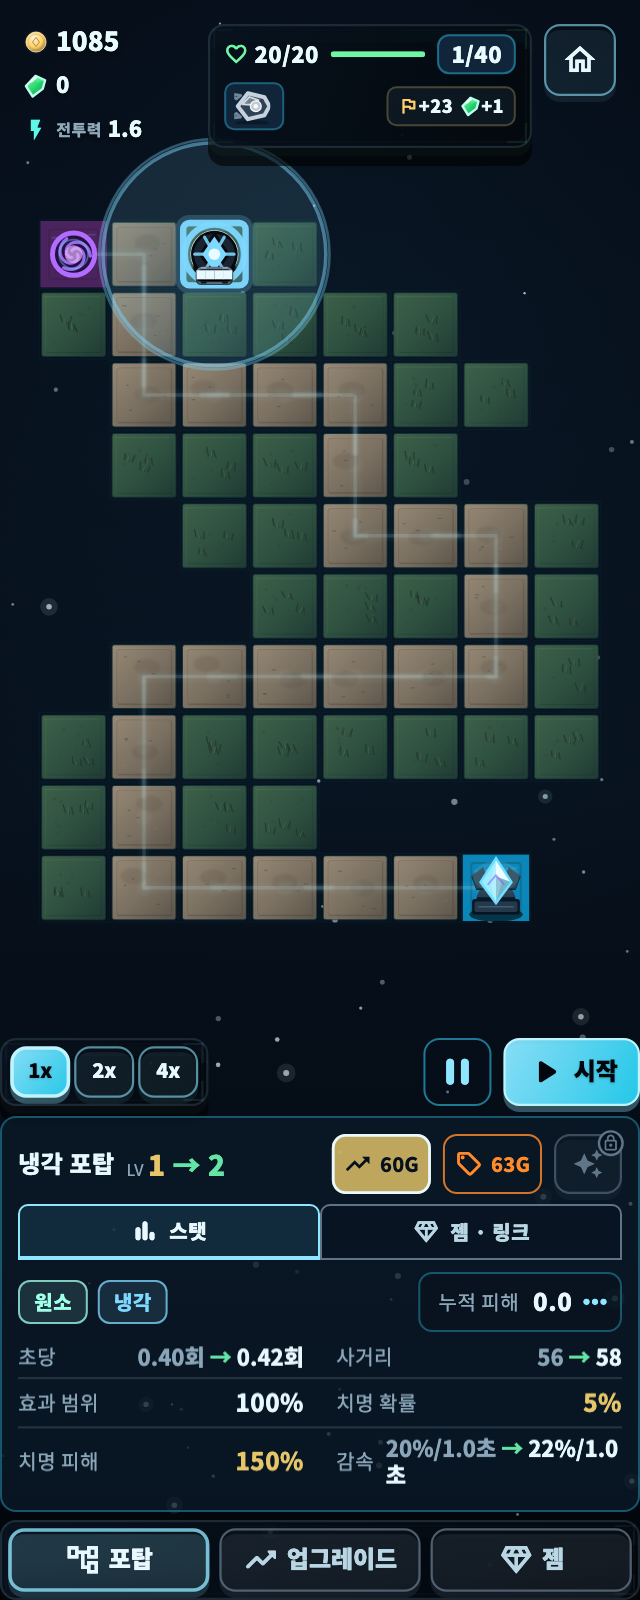
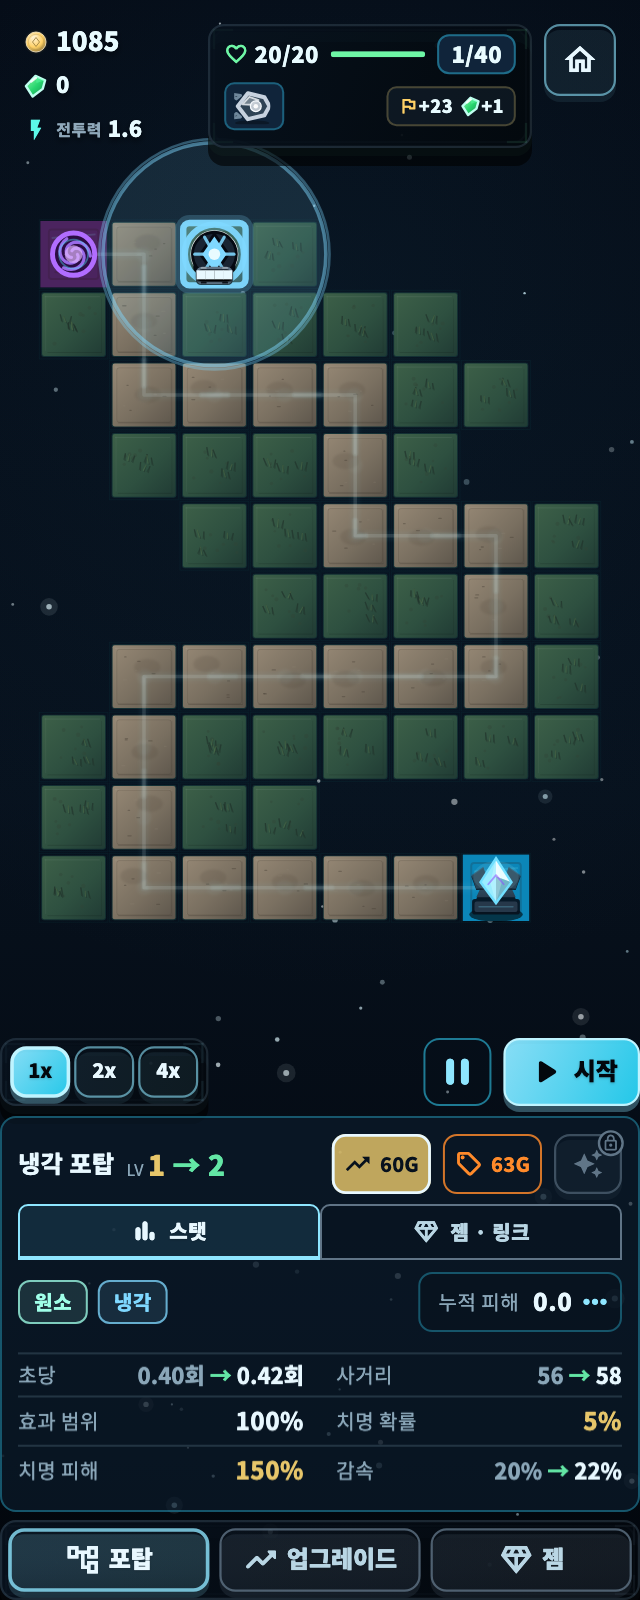
fix: 스탯창 감속을 강도만 표시하도록 정리

Changed region(s): [[0.5312, 0.8438, 0.9688, 0.9375], [0.1875, 0.8438, 0.5, 0.9375], [0.0312, 0.8438, 0.1562, 0.9375]]

diff --git a/test/combat_hud_widget_test.dart b/test/combat_hud_widget_test.dart
@@ -74,7 +74,7 @@ void main() {
     final viewport = find.byKey(const ValueKey('turret-stats-scroll'));
     await tester.drag(viewport, const Offset(0, -90));
     await pumpGameFrames(tester);
-    expect(find.text('20%/1.0초').hitTestable(), findsOneWidget);
+    expect(find.text('20%').hitTestable(), findsOneWidget);
     expect(
       game.snapshotNotifier.value.selectedTurretSlowMultiplier,
       closeTo(0.8, 0.001),
@@ -85,10 +85,7 @@ void main() {
     final preview = game.snapshotNotifier.value;
     expect(preview.selectedTurretNextSlowMultiplier, closeTo(0.78, 0.001));
     expect(preview.selectedTurretNextSlowDuration, 1);
-    expect(
-      find.text('20%/1.0초 → 22%/1.0초', findRichText: true),
-      findsOneWidget,
-    );
+    expect(find.text('20% → 22%', findRichText: true), findsOneWidget);
     expect(tester.takeException(), isNull);
 
     game.previewOrLevelUpSelectedTurret();
@@ -99,10 +96,7 @@ void main() {
       upgraded.selectedTurretSlowMultiplier,
       closeTo(preview.selectedTurretNextSlowMultiplier, 0.001),
     );
-    expect(
-      find.text('22%/1.0초 → 24%/1.0초', findRichText: true),
-      findsOneWidget,
-    );
+    expect(find.text('22% → 24%', findRichText: true), findsOneWidget);
     expect(tester.takeException(), isNull);
   });
 

diff --git a/lib/ui/hud/gem_equip_panel.dart b/lib/ui/hud/gem_equip_panel.dart
@@ -1134,7 +1134,7 @@ class _TurretStats extends StatelessWidget {
     }
     if (snapshot.selectedTurretSlowDuration > 0) {
       final currentSlow =
-          '${((1 - snapshot.selectedTurretSlowMultiplier) * 100).round()}%/${snapshot.selectedTurretSlowDuration.toStringAsFixed(1)}초';
+          '${((1 - snapshot.selectedTurretSlowMultiplier) * 100).round()}%';
       cells.add(
         _TurretStatEntry(
           label: '감속',
@@ -1143,7 +1143,7 @@ class _TurretStats extends StatelessWidget {
               ? _PreviewStatValue(
                   current: currentSlow,
                   next:
-                      '${((1 - snapshot.selectedTurretNextSlowMultiplier) * 100).round()}%/${snapshot.selectedTurretNextSlowDuration.toStringAsFixed(1)}초',
+                      '${((1 - snapshot.selectedTurretNextSlowMultiplier) * 100).round()}%',
                 )
               : null,
         ),
